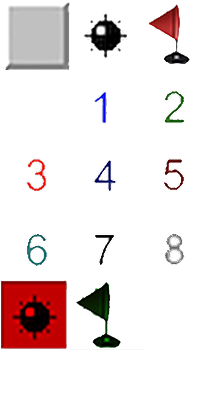
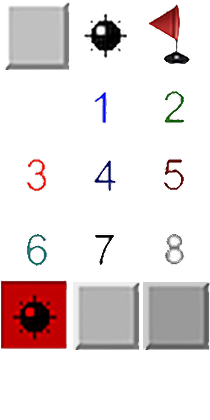
9.19 扫雷按钮格子按下滑动颜色状态变更。

Changed region(s): [[0.3429, 0.65, 1.0, 0.8357]]

diff --git a/Client/MineCC/assets/Scripts/MineMap.ts b/Client/MineCC/assets/Scripts/MineMap.ts
@@ -21,6 +21,7 @@ export default class MineMap extends cc.Component {
     _mouse: cc.Node;
     _delt: any;
     idx: number;
+    _preIdx: number;
 
     // LIFE-CYCLE CALLBACKS:
 
@@ -72,25 +73,35 @@ export default class MineMap extends cc.Component {
         this.node.on("touchstart", function (event) {
             if (this._bTouch == true || GLB.iType == 2)  return;
             this._bTouch = true;
-            var touchPos = event.touch.getLocation();
-            var nPos = this.node.convertToNodeSpace(touchPos);
+            let touchPos = event.touch.getLocation();
+            let nPos = this.node.convertToNodeSpace(touchPos);
             this._prePos = touchPos;
             let iR = Math.floor (nPos.x / _dx);
             let iL = this._iLine - 1 - Math.floor (nPos.y / _dx);
             this.idx = iR + iL * this._iRow;
-            if (this._delt.getBGameOver() == false && this._delt._tBtns[this.idx] == 1)
+            this._preIdx = this.idx;
+            if (this._delt.getBGameOver() == false && this._delt._tBtns[this.idx] == 1){
                 this._iTime = 0;
+                if (this._delt._tFlag[this.idx] == 0) this._delt.showPressedColor(this.idx);
+            }
         }, this)
         this.node.on("touchmove", function (event) {
+            let touchPos = event.touch.getLocation();
+            let nPos = this.node.convertToNodeSpace(touchPos);
+            let iR = Math.floor (nPos.x / _dx);
+            let iL = this._iLine - 1 - Math.floor (nPos.y / _dx);
+            if (this._delt._tBtns[this._preIdx] == 1) this._delt.showNormalColor(this._preIdx);
+            this._preIdx = iR + iL * this._iRow;
+            if (this._delt._tBtns[this._preIdx] == 1) this._delt.showHighlightedColor(this._preIdx);
             if (this._bTouch == false || GLB.iType == 2)  return;
-            var nPos = event.touch.getLocation();
-            if (Math.abs(nPos.x - this._prePos.x) > _iM || Math.abs(nPos.y - this._prePos.y) > _iM)
+            if (Math.abs(touchPos.x - this._prePos.x) > _iM || Math.abs(touchPos.y - this._prePos.y) > _iM)
                 this._iTime = -1;
         }, this)
         this.node.on("touchend", function (event) {
+            if (this._delt._tBtns[this._preIdx] == 1) this._delt.showNormalColor(this._preIdx);
             if (this._bTouch == false || GLB.iType == 2)  return;
-            var nPos = event.touch.getLocation();
-            if (Math.abs(nPos.x - this._prePos.x) > _iM || Math.abs(nPos.y - this._prePos.y) > _iM){
+            let touchPos = event.touch.getLocation();
+            if (Math.abs(touchPos.x - this._prePos.x) > _iM || Math.abs(touchPos.y - this._prePos.y) > _iM){
                 this._prePos = null;
             } else{
                 this._delt.onClick(this.idx);
@@ -98,6 +109,9 @@ export default class MineMap extends cc.Component {
             this._bTouch = false;
             this._iTime = -1;
         }, this)
+        // this.node.on("touchcancel", function (event) {
+        //     this._delt.showNormalColor(this.idx);
+        // }, this)
     }
 
     setMousePos(iR, iL){

diff --git a/Client/MineCC/assets/Scripts/Main.ts b/Client/MineCC/assets/Scripts/Main.ts
@@ -2,7 +2,7 @@ const {ccclass, property} = cc._decorator;
 
 import {GLB} from "./GLBConfig";
 import {WS} from "./Socket";
-//gid 1-btn 2-mine 3-flag 4-null 5-12-num 13-redmine 14-greenflag
+//gid 1-btn 2-mine 3-flag 4-null 5-12-num 13-redmine 14-15-鼠标悬停时的按钮以及按下时的按钮
 
 @ccclass
 export default class Main extends cc.Component {
@@ -400,7 +400,6 @@ export default class Main extends cc.Component {
     }
 
     //iType 0正常翻，1插旗，2点数字
-    //world 0/2点到雷胜利, 1点到雷死亡
     onPlaybackEvent(iType, idx){
         var iR = idx % this._iRow;
         var iL = Math.floor (idx / this._iRow);
@@ -590,6 +589,27 @@ export default class Main extends cc.Component {
         let row = idx % this._iRow;
         let line = Math.floor(idx/this._iRow);
         this._layerBtn.setTileGIDAt(13, row, line);
+    }
+
+    showNormalColor(idx){
+        let row = idx % this._iRow;
+        let line = Math.floor(idx/this._iRow);
+        cc.log("normal idx = ", idx);
+        this._layerBtn.setTileGIDAt(1, row, line);
+    }
+
+    showHighlightedColor(idx){
+        let row = idx % this._iRow;
+        let line = Math.floor(idx/this._iRow);
+        cc.log("highlight idx = ", idx);
+        this._layerBtn.setTileGIDAt(14, row, line);
+    }
+
+    showPressedColor(idx){
+        let row = idx % this._iRow;
+        let line = Math.floor(idx/this._iRow);
+        cc.log("pressed idx = ", idx);
+        this._layerBtn.setTileGIDAt(15, row, line);
     }
 
     onClick(idx){
